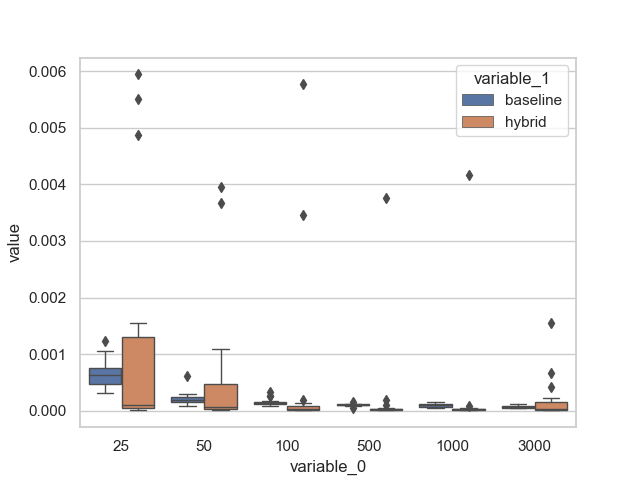
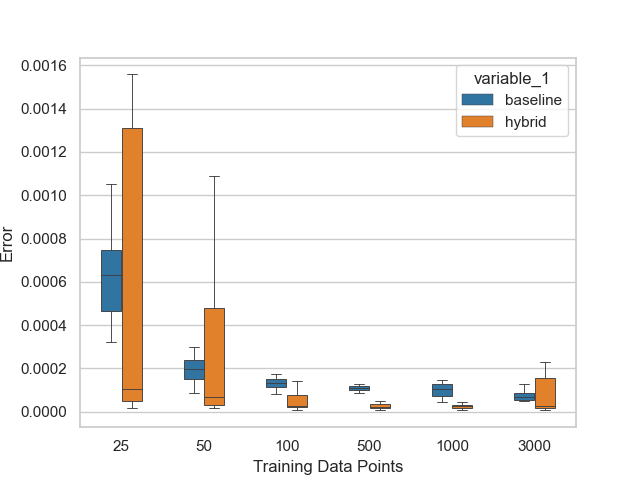
plotting

diff --git a/distributions.py b/distributions.py
@@ -7,6 +7,19 @@ sns.set_style('whitegrid')
 from scipy import interpolate
 from scipy import stats
 
+
+def patch_violinplot(palette, alpha, n):
+    from matplotlib.collections import PolyCollection
+    ax = plt.gca()
+    violins = [art for art in ax.get_children() if isinstance(art, PolyCollection)]
+    colors = sns.color_palette(palette, n_colors=n) * (len(violins)//n)
+    for i in range(len(violins)):
+        violins[i].set_edgecolor(colors[i])
+        violins[i].set_alpha(alpha)
+
+
+
+
 skips = np.array([1, 3, 6, 30, 60, 120])
 skips = np.array([120, 60, 30, 6, 3, 1])
 
@@ -97,83 +110,61 @@ for skip in skips:
 # plt.show()
 
 df = pd.melt(df)
+print(df)
+for i in szz:
+    dd = df[df['variable_0'].isin([i])]
+    pal = sns.color_palette('tab10')
+
+    alpha = 0.7
+    b = sns.boxplot(x='variable_1', y='value', data=dd, linewidth=.65, showfliers=False, palette=pal, width=0.3)
+    # p1 = sns.stripplot(x='variable_1', y='value', data=dd, dodge=True, jitter=False, linewidth=.5, size=3, palette=pal, ec="black", alpha=alpha)
+    # p2 = sns.violinplot(x='variable_1', y='value', data=dd, linewidth=.5, scale='width', bw=.75, cut=0, inner='box', palette=pal)
+    # for p, box in enumerate(b.artists):
+    #     r_, g_, b_, a_ = box.get_facecolor()
+    #     # box.set_edgecolor((r_, g_, b_, .75))
+    #     box.set_facecolor((r_, g_, b_, .75))
+    #     box.set_edgecolor((0, 0, 0, .75))
+    #     # box.set_facecolor((0, 0, 0, 0))
+    #     print(p)
+    #     for q in range(5*p, 5*(p+1)):
+    #         b.lines[q].set_color('black')
+    #         print('   ', q)
+    #     # for q in range(20, 28):
+    #     #     b.lines[q].set_alpha(0)
+
+    # patch_violinplot(['black', 'black', 'black', 'black', 'black'], alpha, 4)
+
+
+    plt.ylabel('Error')
+    plt.title(f'Performance when trained on {i} datapoints')
+
+    plt.savefig(f'plots/{i}plot.png')
+    plt.show()
+
+
+
+
 hy = df[df['variable_1'].isin(['baseline', 'hybrid'])]
 loss = df[df['variable_1'].isin(['baseline', 'loss'])]
 trans = df[df['variable_1'].isin(['baseline', 'transfer'])]
 
 mypal = sns.color_palette()
-p1 = sns.stripplot(x='variable_0', y='value', hue='variable_1', data=df, dodge=True, jitter=False, linewidth=.75, size=1.75)
-p2 = sns.violinplot(x='variable_0', y='value', hue='variable_1', data=df, linewidth=1, scale='width', bw=.75, cut=0, inner='stick', alpha=.5)
-h, l = p2.get_legend_handles_labels()
-plt.legend(h[0:4], l[0:4])
-plt.savefig('plots/df_violin_stick.png')
-plt.show()
 
-p1 = sns.stripplot(x='variable_0', y='value', hue='variable_1', data=hy, dodge=True, jitter=False, linewidth=.75, size=1.75)
-p2 = sns.violinplot(x='variable_0', y='value', hue='variable_1', data=hy, linewidth=1, scale='width', bw=.5, cut=0, inner='stick', alpha=.5)
-h, l = p2.get_legend_handles_labels()
-plt.legend(h[0:2], l[0:2])
-plt.savefig('plots/hy_violin_stick.png')
-plt.show()
-
-p1 = sns.stripplot(x='variable_0', y='value', hue='variable_1', data=loss, dodge=True, jitter=False, linewidth=.75, size=1.75, palette=[mypal[0], mypal[2]])
-p2 = sns.violinplot(x='variable_0', y='value', hue='variable_1', data=loss, linewidth=1, scale='width', bw=.5, cut=0, inner='stick', alpha=.5, palette=[mypal[0], mypal[2]])
-h, l = p2.get_legend_handles_labels()
-plt.legend(h[0:2], l[0:2])
-plt.savefig('plots/loss_violin_stick.png')
-plt.show()
-
-
-p1 = sns.stripplot(x='variable_0', y='value', hue='variable_1', data=trans, dodge=True, jitter=False, linewidth=.75, size=1.75, palette=[mypal[0], mypal[3]])
-p2 = sns.violinplot(x='variable_0', y='value', hue='variable_1', data=trans, linewidth=1, scale='width', bw=.75, cut=0, inner='stick', alpha=.5, palette=[mypal[0], mypal[3]])
-h, l = p2.get_legend_handles_labels()
-plt.legend(h[0:2], l[0:2])
-plt.savefig('plots/trans_violin_stick.png')
-plt.show()
-
-
-# INNER=BOX
-# p1 = sns.stripplot(x='variable_0', y='value', hue='variable_1', data=df, dodge=True, jitter=False, linewidth=.75, size=1.75)
-p2 = sns.violinplot(x='variable_0', y='value', hue='variable_1', data=df, linewidth=1, scale='width', bw=.75, cut=0, inner='box', alpha=.5)
-h, l = p2.get_legend_handles_labels()
-plt.legend(h[0:4], l[0:4])
-plt.savefig('plots/df_violin_box.png')
-plt.show()
-
-# p1 = sns.stripplot(x='variable_0', y='value', hue='variable_1', data=hy, dodge=True, jitter=False, linewidth=.75, size=1.75)
-p2 = sns.violinplot(x='variable_0', y='value', hue='variable_1', data=hy, linewidth=1, scale='width', bw=.5, cut=0, inner='box', alpha=.5)
-h, l = p2.get_legend_handles_labels()
-plt.legend(h[0:2], l[0:2])
-plt.savefig('plots/hy_violin_box.png')
-plt.show()
-
-# p1 = sns.stripplot(x='variable_0', y='value', hue='variable_1', data=loss, dodge=True, jitter=False, linewidth=.75, size=1.75, palette=[mypal[0], mypal[2]])
-p2 = sns.violinplot(x='variable_0', y='value', hue='variable_1', data=loss, linewidth=1, scale='width', bw=.5, cut=0, inner='box', alpha=.5, palette=[mypal[0], mypal[2]])
-h, l = p2.get_legend_handles_labels()
-plt.legend(h[0:2], l[0:2])
-plt.savefig('plots/loss_violin_box.png')
-plt.show()
-
-
-# p1 = sns.stripplot(x='variable_0', y='value', hue='variable_1', data=trans, dodge=True, jitter=False, linewidth=.75, size=1.75, palette=[mypal[0], mypal[3]])
-p2 = sns.violinplot(x='variable_0', y='value', hue='variable_1', data=trans, linewidth=1, scale='width', bw=.75, cut=0, inner='box', alpha=.5, palette=[mypal[0], mypal[3]])
-h, l = p2.get_legend_handles_labels()
-plt.legend(h[0:2], l[0:2])
-plt.savefig('plots/trans_violin_box.png')
-plt.show()
-
-
-
-sns.boxplot(x='variable_0', y='value', hue='variable_1', data=df, linewidth=1)
-plt.savefig('plots/df_box.png')
-plt.show()
-
-sns.boxplot(x='variable_0', y='value', hue='variable_1', data=hy, linewidth=1)
+sns.boxplot(x='variable_0', y='value', hue='variable_1', data=hy, linewidth=.65, showfliers=False, palette=pal, width=0.5)
+# plt.ylim(-.00025, .002)
+plt.ylabel('Error')
+plt.xlabel('Training Data Points')
 plt.savefig('plots/hy_box.png')
 plt.show()
-sns.boxplot(x='variable_0', y='value', hue='variable_1', data=loss, linewidth=1, palette=[mypal[0], mypal[2]])
+sns.boxplot(x='variable_0', y='value', hue='variable_1', data=loss, linewidth=.65, showfliers=False, palette=[pal[0], pal[2]], width=0.5)
+# plt.ylim(-.00025, .002)
+plt.ylabel('Error')
+plt.xlabel('Training Data Points')
 plt.savefig('plots/loss_box.png')
 plt.show()
-sns.boxplot(x='variable_0', y='value', hue='variable_1', data=trans, linewidth=1, palette=[mypal[0], mypal[3]])
+sns.boxplot(x='variable_0', y='value', hue='variable_1', data=trans, linewidth=.65, showfliers=False, palette=[pal[0], pal[3]], width=0.75)
+# plt.ylim(-.00025, .002)
+plt.ylabel('Error')
+plt.xlabel('Training Data Points')
 plt.savefig('plots/trans_box.png')
 plt.show()

diff --git a/bleh.py b/bleh.py
@@ -1,23 +1,59 @@
 import numpy as np
+import pandas as pd
 import matplotlib.pyplot as plt
+import seaborn as sns
+sns.set()
+sns.set_style('whitegrid')
+from scipy import interpolate
+from scipy import stats
 
-b = np.array([])
-batches = np.array([])
+skips = np.array([1, 3, 6, 30, 60, 120])
+skips = np.array([120, 60, 30, 6, 3, 1])
 
-for skipsize in range(1, 100, 2):
-    # hyper parameters
-    input_size = 12  # 28x28
-    hidden_size = 20  # how many neurons per hidden layer
-    num_out = 4  # digits 0-9
-    num_epochs = 500
-    gamma = .999
-    learning_rate = .1
+sz = np.array(3000/skips, dtype=int)
+szz = np.array(sz, dtype=str)
 
-    mask = np.arange(100, 3100, skipsize)
-    x = len(mask)
-    b = np.append(b, x)
-    print(len(mask))
-    batches = np.append(batches, int(8.87509976e-10*x**3 + 2.74530619e-06*x**2 + 1.39164881e-03*x + 9.58001062))
-    print(len(b), len(batches))
-plt.plot(b, batches, 'bo')
+d = {}
+for skip in skips:
+    base = pd.read_csv(f'perf_data2.base_{skip}.csv').iloc[:, 1]
+
+    hy = pd.read_csv(f'perf_data2.hybrid_{skip}.csv').iloc[:, 1]
+
+    loss = pd.read_csv(f'perf_data2.loss_{skip}.csv').iloc[:, 1]
+
+    trans = pd.read_csv(f'perf_data2.transfer_{skip}.csv').iloc[:, 1]
+
+    d[(f'l{int(3000 / skip)}', 'baseline')] = base.values
+    d[(f'l{int(3000 / skip)}', 'hybrid')] = hy.values
+    d[(f'l{int(3000 / skip)}', 'loss')] = loss.values
+    d[(f'l{int(3000 / skip)}', 'transfer')] = trans.values
+    # d2[(f'{int(3000 / skip)}', 'baseline')] = d1
+df = pd.DataFrame(d)
+
+
+plt.violinplot(df.l25)
+plt.title('25 datapoints')
+plt.ylabel('MAE')
 plt.show()
+plt.violinplot(df.l50)
+plt.title('50 datapoints')
+plt.ylabel('MAE')
+plt.show()
+plt.violinplot(df.l100)
+plt.title('100 datapoints')
+plt.ylabel('MAE')
+plt.show()
+plt.violinplot(df.l500)
+plt.title('500 datapoints')
+plt.ylabel('MAE')
+plt.show()
+plt.violinplot(df.l1000)
+plt.title('1000 datapoints')
+plt.ylabel('MAE')
+plt.show()
+plt.violinplot(df.l3000)
+plt.title('3000 datapoints')
+plt.ylabel('MAE')
+plt.show()
+
+
